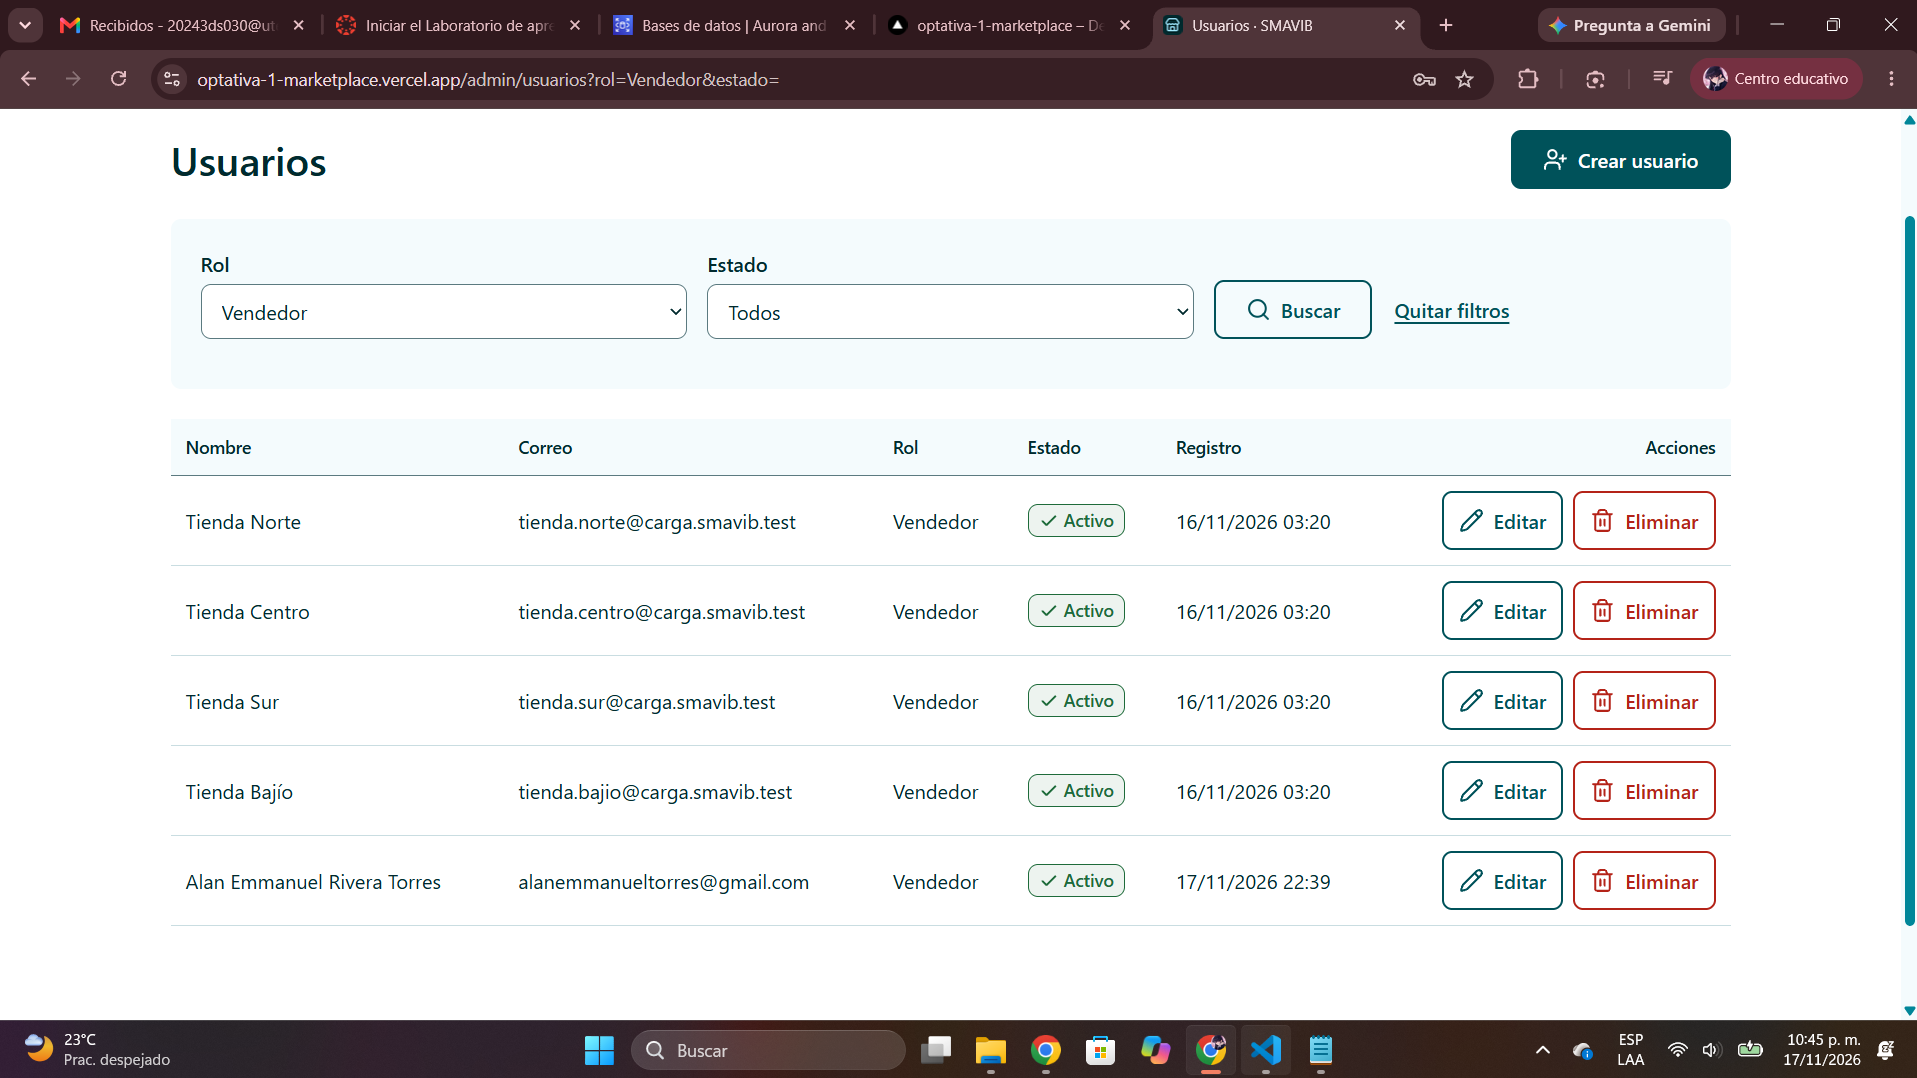
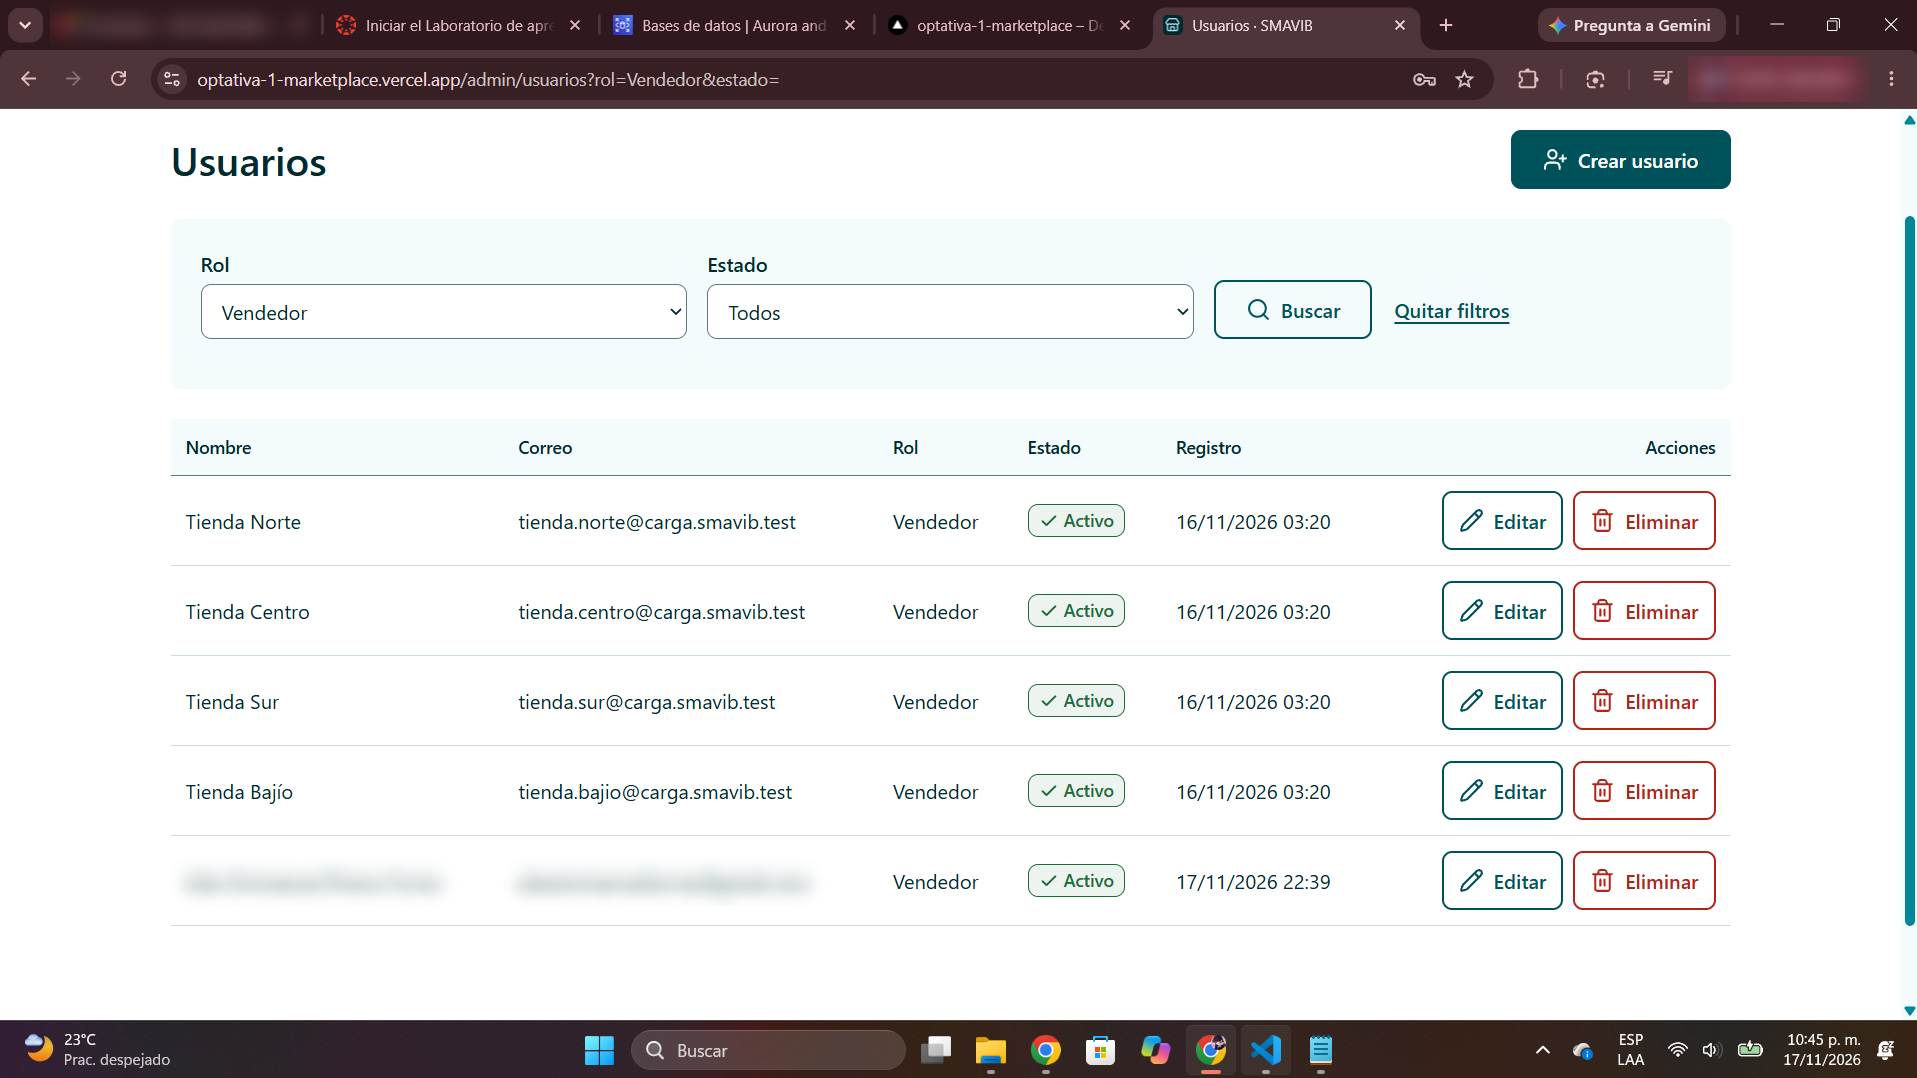
[FRONTEND][PRUEBAS] Modulo 4 de pruebas completo y ajustes visuales en pantallas de filtros y busqueda. Difuminado de datos en capturas anteriores

diff --git a/frontend/templates/catalogo.html b/frontend/templates/catalogo.html
@@ -34,17 +34,17 @@
             {{ ui.mensaje("error", error) }}
         {% elif pagina and not pagina.productos %}
             {% if pagina.siguiente_cursor %}
-                {{ ui.vacio(msg_sin_productos, url_for('catalogo.inicio', cursor=pagina.siguiente_cursor, **busqueda.filtros()), "Seguir buscando", "search") }}
+                {{ ui.vacio(msg_sin_productos, url_for('catalogo.inicio', cursor=pagina.siguiente_cursor, **filtros), "Seguir buscando", "search") }}
             {% else %}
-                {{ ui.vacio(msg_sin_productos, url_for('catalogo.inicio') if busqueda.filtros() else None, "Quitar filtros") }}
+                {{ ui.vacio(msg_sin_productos, url_for('catalogo.inicio') if filtros else None, "Quitar filtros") }}
             {% endif %}
         {% elif pagina %}
             <ul class="rejilla-productos">
                 {% for p in pagina.productos %}{{ ui.tarjeta_producto(p) }}{% endfor %}
             </ul>
             {{ ui.paginacion(
-                url_for('catalogo.inicio', **busqueda.filtros()) if not es_primera_pagina else None,
-                url_for('catalogo.inicio', cursor=pagina.siguiente_cursor, **busqueda.filtros()) if pagina.siguiente_cursor else None) }}
+                url_for('catalogo.inicio', **filtros) if not es_primera_pagina else None,
+                url_for('catalogo.inicio', cursor=pagina.siguiente_cursor, **filtros) if pagina.siguiente_cursor else None) }}
         {% endif %}
     </section>
 </div>

diff --git a/frontend/static/css/app.css b/frontend/static/css/app.css
@@ -472,6 +472,7 @@ a:hover { color: var(--c-900); text-decoration-thickness: 2px; }
     padding: var(--s-6) var(--s-4);
     border: 1px dashed var(--border-strong); border-radius: var(--radius);
     color: var(--text);
+    display: flex; flex-direction: column; align-items: center; text-align: center;
 }
 .vacio p { margin: 0 0 var(--s-3); font-size: var(--fs-20); font-weight: var(--fw-semibold); }
 .vacio p:last-child { margin: 0; }

diff --git a/frontend/rutas_catalogo.py b/frontend/rutas_catalogo.py
@@ -3,7 +3,9 @@
 Ambas rutas son abiertas, igual que las Lambdas. Con sesión se manda el token
 a la 4.2 para que la API devuelva el stock exacto (regla de Ian).
 """
-from flask import Blueprint, abort, render_template, request
+from dataclasses import replace
+
+from flask import Blueprint, abort, g, render_template, request
 
 import api
 import catalogos
@@ -15,34 +17,55 @@ from errores_campo import asignar
 bp = Blueprint("catalogo", __name__)
 
 
+def _buscar(busqueda):
+    """4.1 es pública: no se manda el token. La Lambda revisa hasta 2,000
+    ítems por llamada; si no encontró nada pero hay cursor, se sigue
+    buscando (con tope) para no mostrar una página vacía a medias."""
+    params = busqueda.to_dict()
+    pagina = None
+    for _ in range(BUSQUEDA_MAX_LLAMADAS):
+        pagina = PaginaProductosDTO.from_api(
+            api.llamar("GET", "/productos", params=params, token=None))
+        if pagina.productos or not pagina.siguiente_cursor:
+            break
+        params = {**busqueda.filtros(), "cursor": pagina.siguiente_cursor}
+    return pagina
+
+
 @bp.route("/")
 def inicio():
     busqueda = BusquedaDTO.from_form(request.args)
+    vigente = busqueda   # filtros que sí se aplicaron (para los enlaces)
     pagina, error = None, None
     try:
-        # 4.1 es pública: no se manda el token. La Lambda revisa hasta 2,000
-        # ítems por llamada; si no encontró nada pero hay cursor, se sigue
-        # buscando (con tope) para no mostrar una página vacía a medias.
-        params = busqueda.to_dict()
-        for _ in range(BUSQUEDA_MAX_LLAMADAS):
-            pagina = PaginaProductosDTO.from_api(
-                api.llamar("GET", "/productos", params=params, token=None))
-            if pagina.productos or not pagina.siguiente_cursor:
-                break
-            params = {**busqueda.filtros(), "cursor": pagina.siguiente_cursor}
+        pagina = _buscar(busqueda)
     except api.ApiError as exc:
-        error = None if asignar(exc.mensaje, "filtro_catalogo", request.args) else exc.mensaje
+        if asignar(exc.mensaje, "filtro_catalogo", request.args):
+            # Filtro inválido: el error va debajo del campo y, en lugar de
+            # dejar la pantalla vacía, se muestran los productos con los
+            # filtros válidos. El rango de precio se quita completo.
+            quitar = set(g.errores)
+            if quitar & {"precio_min", "precio_max"}:
+                quitar |= {"precio_min", "precio_max"}
+            vigente = replace(busqueda, cursor="", **{c: "" for c in quitar})
+            try:
+                pagina = _buscar(vigente)
+            except (api.ApiError, ErrorRespuesta):
+                pagina = None
+        else:
+            error = exc.mensaje
     except ErrorRespuesta:
         error = MSG_ERROR_INTERNO
 
     return render_template(
         "catalogo.html",
         busqueda=busqueda,
+        filtros=vigente.filtros(),
         categorias=catalogos.categorias(),
         pagina=pagina,
         error=error,
         msg_sin_productos=MSG_SIN_PRODUCTOS,
-        es_primera_pagina=not busqueda.cursor,
+        es_primera_pagina=not vigente.cursor,
     )
 
 

diff --git a/frontend/tests/test_ajustes_interfaz.py b/frontend/tests/test_ajustes_interfaz.py
@@ -36,3 +36,31 @@ def test_producto_ajeno_no_se_abre(R, cliente):
         r = c.get(ruta)
         assert r.status_code == 403 and "Acceso restringido" in r.get_data(as_text=True)
     assert not any(ruta == "/productos/9003" for _, ruta, _ in R.llamadas)   # ni siquiera se consulta
+
+
+def test_rango_de_precio_invalido_muestra_productos(monkeypatch, cliente):
+    # 4.3: el error va debajo del precio mínimo y la pantalla no queda vacía:
+    # se muestran los productos sin el rango de precio, y los enlaces no lo llevan.
+    import api
+    llamadas = []
+
+    def simulada(metodo, ruta, params=None, **kw):
+        if ruta == "/productos":
+            llamadas.append(params)
+        if params and "precio_min" in params:
+            raise api.ApiError(400, "El precio mínimo no puede ser mayor al máximo")
+        return {"productos": [{"id_producto": 9003, "nombre": "Celular X", "precio": 250}],
+                "siguiente_cursor": "abc"}
+
+    monkeypatch.setattr(api, "llamar", simulada)
+    h = cliente().get("/?q=cel&precio_min=500&precio_max=100").get_data(as_text=True)
+    assert "El precio mínimo no puede ser mayor al máximo" in h
+    assert "Celular X" in h
+    assert llamadas[-1] == {"q": "cel"}
+    assert "cursor=abc" in h and "precio_min=500" not in h.split('class="rejilla-productos"')[1]
+
+
+def test_estado_vacio_centrado():
+    css = (PLANTILLAS.parent / "static" / "css" / "app.css").read_text(encoding="utf-8")
+    regla = re.search(r"\.vacio \{[^}]*\}", css).group(0)
+    assert "align-items: center" in regla and "text-align: center" in regla

diff --git a/docs/pruebas_aws.md b/docs/pruebas_aws.md
@@ -87,12 +87,12 @@ Sin sesión (ventana privada).
 
 | # | Req. | Pasos | Resultado esperado | Resultado | Evidencia |
 |---|---|---|---|---|---|
-| 4.1 | 4.1 | Abrir el catálogo y pasar a la página siguiente | 20 productos por página, ordenados por precio | | |
-| 4.2 | 4.1 | Filtrar por la categoría `Pruebas SMAVIB` | Aparece el producto de 3.3 | | |
-| 4.3 | 4.1 | Precio mínimo `500`, máximo `100` | "El precio mínimo no puede ser mayor al máximo" | | |
-| 4.4 | 4.1 | Buscar `zzzzzz` | "No se encontraron productos" | | |
-| 4.5 | 4.2 | Detalle del producto | Muestra "Disponible", no el número de unidades | | |
-| 4.6 | 5.1 | "Agregar al carrito" sin sesión | Manda al inicio de sesión y, al entrar, regresa al producto | | |
+| 4.1 | 4.1 | Abrir el catálogo y pasar a la página siguiente | 20 productos por página, ordenados por precio | ✅ | [4.1-abrirCatalogoPaginaSiguiente.png](evidencias/4.1-abrirCatalogoPaginaSiguiente.png) |
+| 4.2 | 4.1 | Filtrar por la categoría `Celulares` | Aparece el producto de 3.3 | ✅ | [4.2-filtrarPorCategoria.png](evidencias/4.2-filtrarPorCategoria.png) |
+| 4.3 | 4.1 | Precio mínimo `500`, máximo `100` | "El precio mínimo no puede ser mayor al máximo" | ✅ | [4.3-buscarPrecioMinimoMaximo.png](evidencias/4.3-buscarPrecioMinimoMaximo.png) |
+| 4.4 | 4.1 | Buscar `zzzz` | "No se encontraron productos" | ✅ | [4.4-buscarProductoZZZZ.png](evidencias/4.4-buscarProductoZZZZ.png) |
+| 4.5 | 4.2 | Detalle del producto | Muestra "Disponible", no el número de unidades | ✅ | [4.5-detalleProductoSinSesion.png](evidencias/4.5-detalleProductoSinSesion.png) |
+| 4.6 | 5.1 | "Agregar al carrito" sin sesión | Manda al inicio de sesión y, al entrar, regresa al producto | ✅ | [4.6-agregarAlCarritoSinSesion.png](evidencias/4.6-agregarAlCarritoSinSesion.png) |
 
 ## 5. Comprador: registro, direcciones, carrito y compra
 
